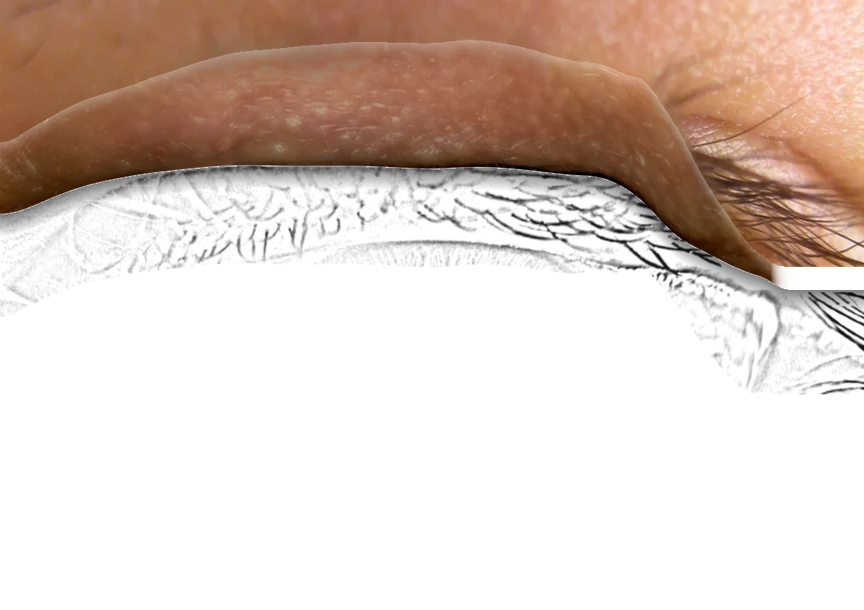
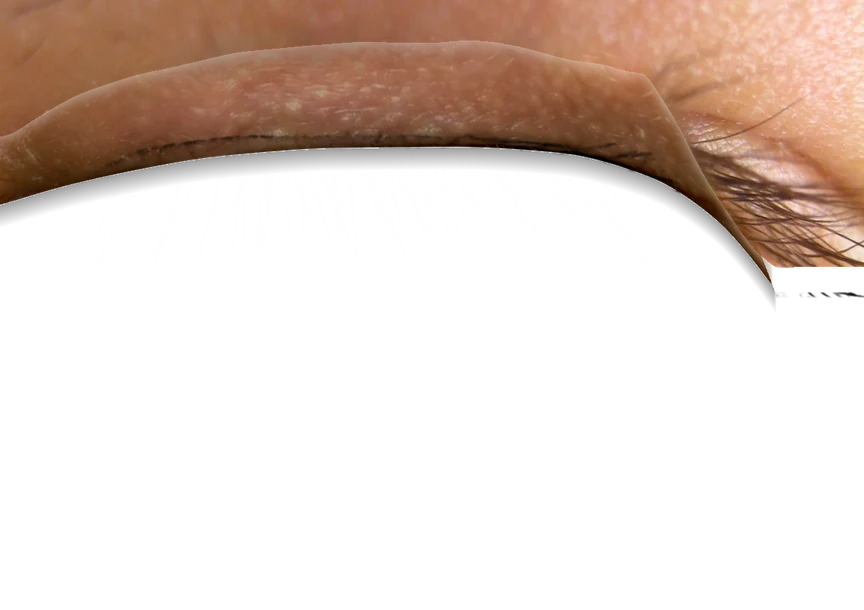
Real eye: clean lid at the outer corner, no see-through between lid frames
The lid edge now runs between two smooth arcs anchored at the outer corner and
bends into it without a kink; the photo's lashes no longer slide down over the
white of the eye, the closed lid's own lashes hang from the edge instead, and
the lashes above the corner are removed as the lid closes. 20 lid frames; the
app draws the lower frame fully first so the lid never turns translucent.
Also fixes the desktop compile (toComposeImageBitmap is an extension).

Claude-Session: https://claude.ai/code/session_01LBg8THo6wTrD4Pw2uQNr1i

diff --git a/ui/src/commonMain/kotlin/io/github/ahmetdurmus1218/jarvis/ui/components/RealEye.kt b/ui/src/commonMain/kotlin/io/github/ahmetdurmus1218/jarvis/ui/components/RealEye.kt
@@ -202,14 +202,14 @@ fun DrawScope.drawEye(eye: EyeAssets, scale: Float, lid: Float) {
     }
     // 2. The window reflected in the cornea does not move with the pupil.
     img(eye.reflection)
-    // 3. The lid, between its two nearest frames.
+    // 3. The lid, between its two nearest frames. The lower frame goes first, fully, so the strip between
+    //    the two lid edges is always covered (a plain cross-fade would let the eye show through the lid).
     val stops = g.lids
     val j = stops.indexOfLast { it <= lid }.coerceIn(0, stops.size - 1)
+    val t = if (j < stops.size - 1) ((lid - stops[j]) / (stops[j + 1] - stops[j])).coerceIn(0f, 1f) else 0f
+    if (t > 0.01f) img(eye.lids[j + 1])
     img(eye.lids[j])
-    if (j < stops.size - 1) {
-        val t = ((lid - stops[j]) / (stops[j + 1] - stops[j])).coerceIn(0f, 1f)
-        if (t > 0.01f) img(eye.lids[j + 1], t)
-    }
+    if (t > 0.01f) img(eye.lids[j + 1], t)
     // 4. The photo's edges fade into Rick's background (only inside the photo: nothing else is covered).
     val bg = JarvisColors.Background
     val v = g.vignette

diff --git a/desktopApp/src/jvmMain/kotlin/io/github/ahmetdurmus1218/jarvis/desktop/DesktopBridge.kt b/desktopApp/src/jvmMain/kotlin/io/github/ahmetdurmus1218/jarvis/desktop/DesktopBridge.kt
@@ -1,5 +1,6 @@
 package io.github.ahmetdurmus1218.jarvis.desktop
 
+import androidx.compose.ui.graphics.toComposeImageBitmap
 import io.github.ahmetdurmus1218.jarvis.core.models.LockedItem
 import io.github.ahmetdurmus1218.jarvis.core.models.Platform
 import io.github.ahmetdurmus1218.jarvis.core.router.QuickCommand
@@ -83,7 +84,7 @@ class DesktopBridge(override val appVersion: String) : PlatformBridge {
 
     override fun bundledImage(path: String): androidx.compose.ui.graphics.ImageBitmap? = runCatching {
         DesktopBridge::class.java.classLoader.getResourceAsStream(path)?.use {
-            androidx.compose.ui.graphics.toComposeImageBitmap(org.jetbrains.skia.Image.makeFromEncoded(it.readBytes()))
+            org.jetbrains.skia.Image.makeFromEncoded(it.readBytes()).toComposeImageBitmap()
         }
     }.getOrNull()
 

diff --git a/desktopApp/src/jvmTest/kotlin/io/github/ahmetdurmus1218/jarvis/desktop/AppUiTest.kt b/desktopApp/src/jvmTest/kotlin/io/github/ahmetdurmus1218/jarvis/desktop/AppUiTest.kt
@@ -1,5 +1,6 @@
 package io.github.ahmetdurmus1218.jarvis.desktop
 
+import androidx.compose.ui.graphics.toComposeImageBitmap
 import androidx.compose.foundation.layout.Box
 import androidx.compose.foundation.layout.size
 import androidx.compose.ui.Modifier
@@ -57,7 +58,7 @@ import kotlin.test.Test
 /** The app's bundled files (assets/), from the test classpath. */
 internal fun testImage(path: String): androidx.compose.ui.graphics.ImageBitmap? =
     AppUiTest::class.java.classLoader.getResourceAsStream(path)?.use {
-        androidx.compose.ui.graphics.toComposeImageBitmap(org.jetbrains.skia.Image.makeFromEncoded(it.readBytes()))
+        org.jetbrains.skia.Image.makeFromEncoded(it.readBytes()).toComposeImageBitmap()
     }
 
 internal fun testText(path: String): String? =

diff --git a/tools/rick-eye/blink.py b/tools/rick-eye/blink.py
@@ -27,24 +27,43 @@ ROOT=7.0                                   # the lid edge sits a little into the
 ux_s=gaussian_filter(ux,22)                # top of the lash band (where the lid skin meets the lashes)
 _UP=[(0,240),(150,192),(300,168),(450,165),(600,165),(750,176),(850,205),(930,258),(990,318),(1035,395)]
 U=gaussian_filter(np.interp(x,[p[0] for p in _UP],[p[1] for p in _UP]),12)   # top of the visible eyeball
-E0=ux_s*(1-smooth(780,960,x))+(U-8)*smooth(780,960,x)   # where the moving lid edge starts: calm, into the corner
+from scipy.interpolate import PchipInterpolator
+# Clean arcs for the lid, anchored at the outer corner: where the moving edge starts (open) and ends (closed).
+_OPEN=[(-80,262),(0,215),(150,160),(300,120),(450,100),(600,95),(750,108),(860,150),(950,230),(1005,320),(1035,395)]
+_SHUT=[(-80,548),(0,566),(120,585),(250,622),(400,664),(580,690),(780,672),(900,618),(980,540),(1035,395)]
+def _arc(pts): return PchipInterpolator([p[0] for p in pts],[p[1] for p in pts],extrapolate=False)(np.clip(x,-80,1035))
+E0=_arc(_OPEN); L1=_arc(_SHUT)
+E0=np.where(x>1035,395.0,E0); L1=np.where(x>1035,395.0,L1)
+# Lashes of the photo around the outer corner (over the skin, outside the lash band): they belong to the lid,
+# so they go away as it closes, and the closed lid's own lashes take their place.
+_g=gaussian_filter(a.mean(2),1.0); _gb=gaussian_filter(_g,6)
+corner_lash=np.clip((_gb-_g)*8,0,1)*smooth(40,80,yy)*smooth(L1[None,:]+90,L1[None,:]+20,yy)
+corner_lash=gaussian_filter(corner_lash,1.0)*smooth(820,900,xx)
+from scipy.ndimage import grey_closing
+_clos=np.stack([grey_closing(a[...,c],size=(11,11)) for c in range(3)],-1)
+_soft=gaussian_filter(_clos,(2.5,2.5,0))
+_hair=np.clip((_soft.mean(2)-_g)*9,0,1)
+corner_lash=np.maximum(corner_lash,gaussian_filter(_hair,1.2)*smooth(40,80,yy)*smooth(L1[None,:]+90,L1[None,:]+20,yy)*smooth(900,1000,xx))
 def frame(scale,b,e_low=0.0,skew=0.0,extra_dim=0.0,base=None,ref=None):
     base=E.pupil_frame(scale) if base is None else base
     ref=base if ref is None else ref
     if e_low>0:
         rgb,al=E.lower_overlay(e_low); base=base*(1-al[...,None])+rgb*al[...,None]
-    travel=np.maximum(l-E0,0)*smooth(OUTER+20,OUTER-40,x)
-    d=np.clip(b*travel*(1+skew*(x/W-0.45)*2),0,travel); d=gaussian_filter(d,6)
+    travel=np.maximum(L1-E0,0)
+    d=np.clip(b*travel*(1+skew*(x/W-0.45)*2),0,travel)
     edge=E0+d
-    wc=float(smooth(0.30,0.80,b))
+    _sm=gaussian_filter(np.pad(edge,60,mode='edge'),18)[60:-60]
+    edge=np.clip(edge+(_sm-edge)*float(4*b*(1-b)),E0,L1)
+    d=edge-E0
+    wc=float(smooth(0.15,0.65,b))
     # the skin above the lid comes down a little with it (the crease deepens)
-    top0=ux-40; top=top0+np.minimum(0.30*d,0.45*np.maximum(top0,0))
+    top0=ux-40; top=top0+gaussian_filter(np.minimum(0.30*d,0.45*np.maximum(top0,0)),30)   # smooth along x: no seams
     ys_above=np.where(yy<top[None,:],yy*(top0/np.maximum(top,1))[None,:],yy)
     moved=np.stack([map_coordinates(ref[...,c],[ys_above,xx],order=1,mode='nearest') for c in range(3)],-1)
     out=np.where((yy<top[None,:])[...,None],moved,base)
+    cw=float(smooth(0.20,0.80,b))*corner_lash
+    out=out*(1-cw[...,None])+_soft*cw[...,None]
     # original lashes ride down with the lid, fading as the closed lid's own lashes take over
-    ol=map_coordinates(lashm,[yy-d[None,:],xx],order=1,mode='constant',cval=0)*(1-wc)
-    out=out*(1-ol[...,None]*0.95)+LASH_RGB*ol[...,None]*0.95
     # the lid: skin of the closed lid, its margin on our edge line
     msrc=mc+ROOT
     k=np.minimum(1.0,(msrc-25)/np.maximum(edge-top,1))[None,:]
@@ -60,12 +79,19 @@ def frame(scale,b,e_low=0.0,skew=0.0,extra_dim=0.0,base=None,ref=None):
     lid_a=(yy<edge[None,:]).astype(np.float32)*smooth(-45,25,yy-top[None,:])
     lid_a=lid_a*np.clip(d/6,0,1)[None,:]*smooth(OUTER+60,OUTER+20,x)[None,:]
     lid_a=np.minimum(lid_a,np.clip((edge[None,:]-yy)/1.5,0,1)+(yy<edge[None,:]-1.5))
-    shadow=np.clip(1-(yy-edge[None,:])/30,0,1)*(yy>=edge[None,:])*0.5*smooth(0.0,0.25,b)
+    # above the eye's opening the lid ends softly at the corner (inside the opening it must cover all)
+    lid_a=np.where(yy>=E0[None,:],lid_a,lid_a*smooth(1048,985,x)[None,:])
+    shadow=np.clip(1-(yy-edge[None,:])/30,0,1)*(yy>=edge[None,:])*0.5*smooth(0.0,0.25,b)*np.clip(travel/25,0,1)[None,:]
     out=out*(1-shadow[...,None])
     out=out*(1-lid_a[...,None])+lid*lid_a[...,None]
+    # the photo's own lashes stay rooted on the margin and point up over the lid, shortening as they turn down
+    fs=1.0-0.45*b
+    ol=map_coordinates(lashm,[E0[None,:]-(edge[None,:]-yy)/fs,xx],order=1,mode='constant',cval=0)
+    ol=ol*smooth(edge[None,:]+3,edge[None,:]-2,yy)*(1-wc)
+    out=out*(1-ol[...,None]*0.95)+LASH_RGB*ol[...,None]*0.95
     # the closed lid's own lashes hang from the edge
     ly=msrc[None,:]+(yy-edge[None,:])*1.35
-    la=map_coordinates(lash_c,[ly,sx],order=1,mode='constant',cval=0)*(yy>=edge[None,:]-3)*wc*smooth(OUTER-10,OUTER-170,x)[None,:]
+    la=map_coordinates(lash_c,[ly,sx],order=1,mode='constant',cval=0)*(yy>=edge[None,:]-3)*wc*smooth(OUTER-15,OUTER-120,x)[None,:]
     out=out*(1-la[...,None]*0.95)+LASH_RGB*la[...,None]*0.95
     out=out*(1-extra_dim)
     return np.clip(out,0,1)

diff --git a/tools/rick-eye/export.py b/tools/rick-eye/export.py
@@ -13,7 +13,7 @@ def save_rgba(rgb,alpha,name,q=88):
 ref=E.pupil_frame(1.0)
 save_rgb(E.clean,"eye_base.jpg")
 r=E.refl; save_rgba(E.clean,r,"eye_reflect.webp",q=92)
-B=[0.0,0.07,0.15,0.24,0.34,0.45,0.56,0.67,0.78,0.88,0.95,1.0]
+B=[0.0,0.05,0.10,0.17,0.24,0.30,0.36,0.42,0.48,0.54,0.60,0.66,0.72,0.78,0.83,0.88,0.92,0.955,0.98,1.0]
 zero=np.zeros_like(ref); one=np.ones_like(ref)
 for i,b in enumerate(B):
     o0=Bk.frame(1.0,b,base=zero,ref=ref); o1=Bk.frame(1.0,b,base=one,ref=ref)

diff --git a/docs/DECISIONS.md b/docs/DECISIONS.md
@@ -591,10 +591,16 @@ Kullanıcı kamera onu gösterirken elleriyle havada tıklamak, kaydırmak, dön
 - Kapak: tek açık fotoğraftan sentezlenen kapak (deri gerdirme, yapay deri) kullanıcıya gösterildi ve "çok kötü"
   bulundu. Yerine gerçek kapalı göz fotoğrafı ("Closed human eye, superior view.jpg", Rapidreflex, CC BY-SA 4.0)
   açık gözün kapak çizgisine oturtuldu: renk eşleme, kirpik çizgisi kapak kenarına, kapalı fotoğrafın kirpikleri
-  ayrıştırılıp kapak kenarından sarkıtıldı, kapağın üstü üstteki deriyle renk olarak birleştirildi. 12 kare
+  ayrıştırılıp kapak kenarından sarkıtıldı, kapağın üstü üstteki deriyle renk olarak birleştirildi. 20 kare
   (b = 0 … 1) RGBA olarak dışa aktarıldı; kareler göz bebeğinden bağımsızdır (kapak katmanı = önceden çarpılmış
   alfa), uygulama iki komşu kare arasında geçiş yapar.
-- Toplam boyut 1,2 MB (`assets/rick-eye`), Android'de assets, PC'de sınıf yolu olarak paketlenir.
+- Kapak düzeltmesi (kullanıcı: "kapağın içinden kirpikler çıkmış, köşede kapak yamuk"): kapak kenarı açık ve kapalı
+  hâlde dış köşeye sabitlenmiş iki düzgün eğri (PCHIP) arasında ilerler, yolda köşeye yumuşakça kıvrılır; fotoğrafın
+  kirpikleri artık kapakla aşağı kaydırılmıyor (gözün beyazında çizik gibi görünüyordu), yerine kapalı kapağın kendi
+  kirpikleri kenardan sarkar; dış köşenin üstündeki kirpikler kapanırken kıl temizleme (gri kapanış) ile silinir.
+  İki kare arası geçişte önce alttaki kare tam çizilir: düz karışımda kapak yarı saydam görünüp göz bebeği içinden
+  seçiliyordu.
+- Toplam boyut 2 MB (`assets/rick-eye`), Android'de assets, PC'de sınıf yolu olarak paketlenir.
 - Lisans: kapak kareleri CC BY-SA 4.0'dan türediği için o lisanslı; kaynaklar `assets/rick-eye/CREDITS.txt` ve
   Ayarlar → Görünüm'de yazılı. Üretim betikleri `tools/rick-eye/`.
 - Bilinen sınır: göz bakış yönü değiştirmez (tek fotoğraf); iki farklı kişinin fotoğrafı birleştiği için kapalıyken
